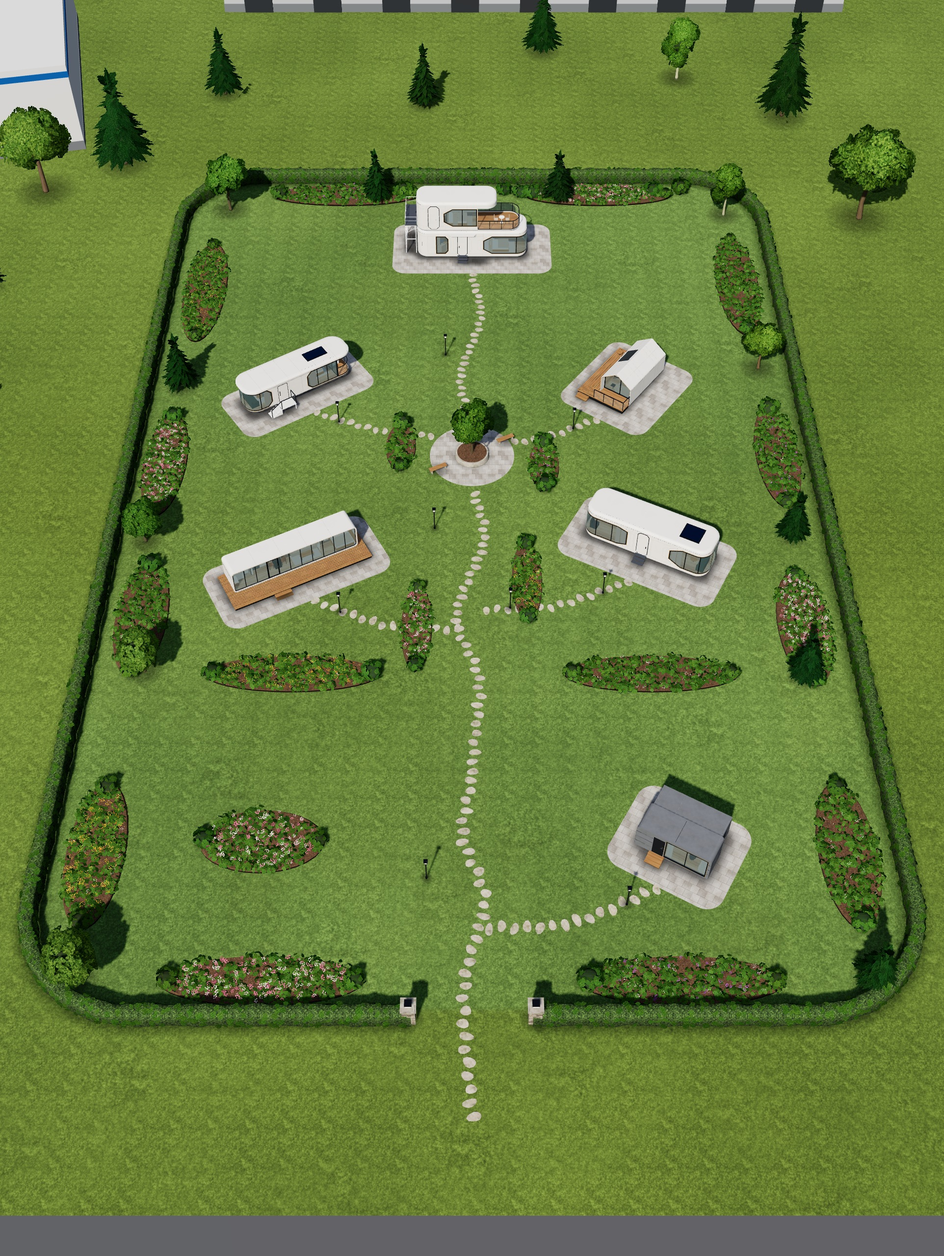
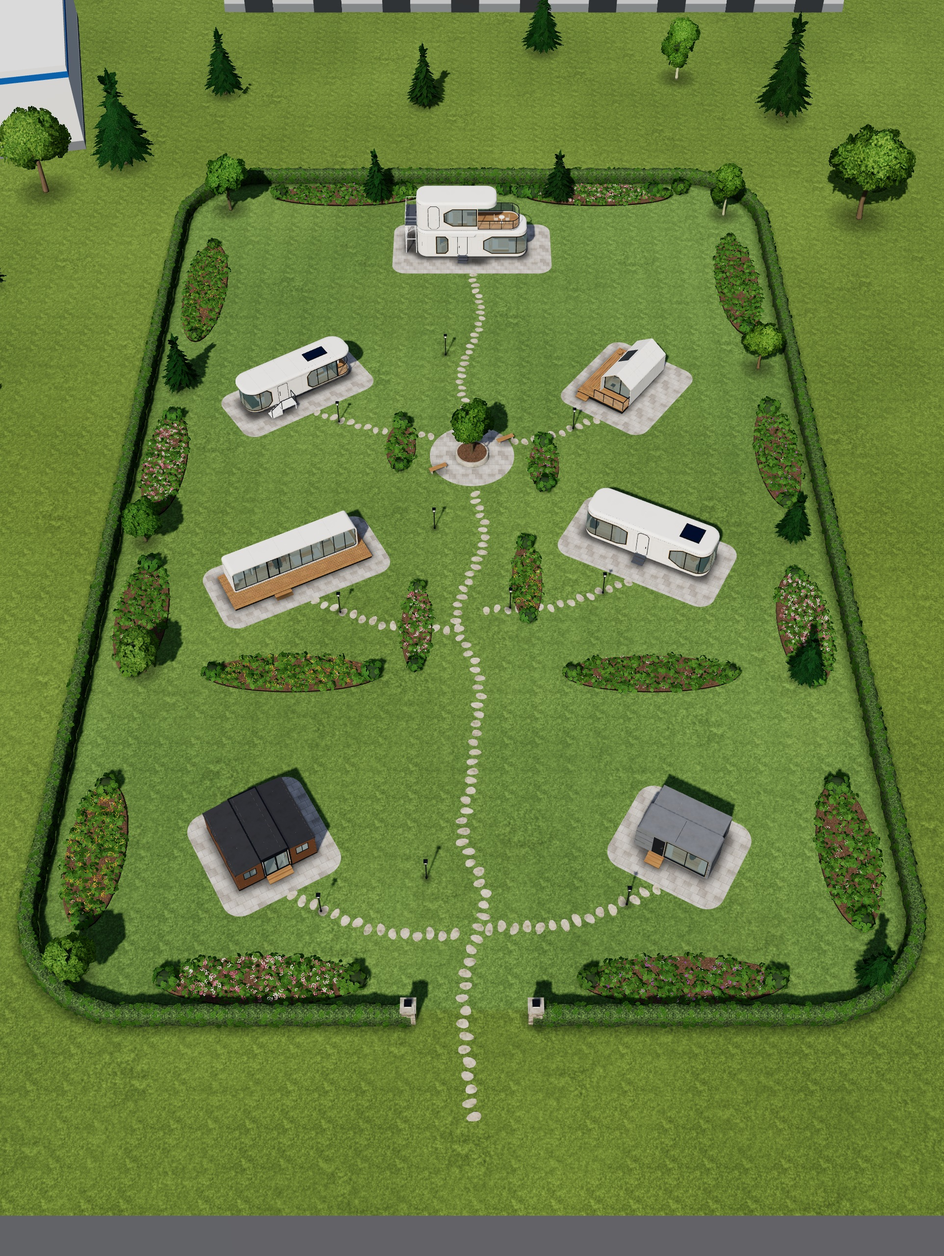
Casa extensibilă de 20 ft: model după planul din ofertă, capturi și noduri pregătite
- h_c20.js refăcut după planul din ofertă (măsurat) și cadre din filmulețul din fabrică:
  peretele dormitoarelor e în miez, dormitoare inegale, baie cu duș pe toată lățimea,
  bucătărie în L; pardoseală gri-bej, rame negre, fără benzi de lumină în tavan
- capturile machetei pentru imaginile reale (toată grădina cu casa, casa din afară pe
  ecran lat și înalt, planul, cinci camere) și locurile camerei pentru ea
- surse/ai360/CITESTE.md, partea a șasea: nodurile pregătite în ElevenLabs pentru casa
  nouă, pentru scaunul din E7 și pentru grădina la ferestrele lui X7, cu pașii de după
- casa nu e pusă în grădină până nu are imagini reale (pune_c20.py o pune / o scoate)

Claude-Session: https://claude.ai/code/session_01KQBPBSm1ebqTvHwEmS7Cs6

diff --git a/site/js/h_c20.js b/site/js/h_c20.js
@@ -71,7 +71,7 @@ export function build(M) {
   // materiale proprii: panourile maro cu aspect de lemn („emissive” diferit de zero, ca seara să nu fie luminate ca mobila) și pardoseala gri-bej
   const lemn = new THREE.MeshStandardMaterial({ color: 0x6f4b31, roughness: .72, metalness: .05, side: THREE.DoubleSide, emissive: 0x010101, emissiveIntensity: 0 });
   const RL = F.fadeSet({ lemn });
-  const podea = new THREE.MeshStandardMaterial({ color: 0xb9b3a7, roughness: .8 });
+  const podea = new THREE.MeshStandardMaterial({ color: 0xb9b3a7, roughness: .8, emissive: 0xb9b3a7, emissiveIntensity: .22 });   // (lumina proprie ține loc de lumina din cameră, ca la pardoseala comună)
 
   /* ---- pereții din afară: aripile (maro) cu ferestre; partea de sus, până sub acoperișul înclinat, se ridică odată cu acoperișul ---- */
   const win = c => [c, WW, WS, WH], pLo = [], pUp = [], inLo = [], inUp = [], frLo = [], frUp = [], gl = [];
@@ -113,9 +113,8 @@ export function build(M) {
   [-1, 1].forEach(s => { mesh(skyGlass(s < 0 ? -DX + .07 : .055, s < 0 ? -.055 : DX - .07, ga, YC, ga, gb, zd), GF.glass, root, false, false); mesh(skyGlass(s < 0 ? -DX + .07 : .055, s < 0 ? -.055 : DX - .07, YC, gb, ga, gb, zd), R.glass, roof, false, false); });
   root.add(box(.025, .16, .05, M.dark, -.1, FY + 1.05, zd + .05), box(.025, .16, .05, M.dark, -.1, FY + 1.05, zd - .05));
 
-  /* ---- pardoseala, luminile din tavan, ramele negre din interior (plinta, colțurile, grinzile de la îmbinarea aripilor cu miezul) ---- */
+  /* ---- pardoseala și ramele negre din interior (plinta, colțurile, grinzile de la îmbinarea aripilor cu miezul); tavanul e alb, simplu ---- */
   mesh(bx(WT - 2 * T, .04, DT - 2 * T, 0, FY - .02, 0), podea, root, false);
-  mesh(merge([bx(.04, .015, 2.6, -.25, Y1 - .14, 1.2), bx(.04, .015, 3.6, -2.1, yw(2.1) - .03, 0), bx(.04, .015, 2.2, 2.1, yw(2.1) - .03, -1.2), bx(.04, .015, 1.5, 2.1, yw(2.1) - .03, 1.75)]), R.ledIn, roof, false, false);
   const PL = .05;
   frLo.push(bx(WT - 2 * T, PL, .02, 0, FY + PL / 2, ZI + .012), bx(.02, PL, DT - 2 * T, -XI + .012, FY + PL / 2, 0), bx(.02, PL, DT - 2 * T, XI - .012, FY + PL / 2, 0));
   [[-XI, -CX], [CX, XI]].forEach(([a, b]) => frLo.push(bx(b - a, PL, .02, (a + b) / 2, FY + PL / 2, ZG - .012)));

diff --git a/surse/ai360/CITESTE.md b/surse/ai360/CITESTE.md
@@ -306,3 +306,71 @@ Credite: 5 imagini 4K cu două referințe 13.635 · retuș 918 · 4 camere 9.088
   T7, când camera ajunge în spatele lor). Se potrivesc doar dacă se refac (≈13.600 de credite pe casă).
 - Imaginile de seară pregătite (12 noduri) sunt din grădina veche: cele două cu toată grădina trebuie refăcute, iar T6 n-are.
 
+
+# Partea a șasea: cererile din 17 nov 2026 (casa C20, scaunul din E7, grădina la ferestrele lui X7) — pregătite, fără credite
+
+Clientul a trimis a doua proformă (casa extensibilă de 20 ft), un filmuleț din fabrică și capturi: „hai să mai adăugăm și casa
+asta”, „aici scaunul este intrat în bucătărie” (E7), „aici aș vrea să arate din grădină… nu din parcare” (X7, interior). ElevenLabs
+avea 606 credite, deci **nimic din ce e mai jos n-a fost pornit**: sursele sunt atașate în flux și nodurile sunt făcute. Când sunt
+credite: `creative_run_flow_nodes` cu `generations_count: 1` (întâi `estimate_only: true`). Ordinea: E7 → X7 → C20.
+
+## 1. E7: scaunul scos din bucătărie (≈ 4.550 de credite)
+Al doilea scaun de la masa rotundă intra în corpul de bucătărie. În model a fost mutat (`site/js/h_e7.js`:
+`put(F.chair(M), -3.58, -.82, Math.PI / 2)`), iar sursele 360° au fost refăcute din aceleași puncte (`e7_living_src.jpg`,
+`e7_bucatarie_src.jpg`). În planul lui E7 (`pl_e7_1`) scaunul nu se vede, deci planul rămâne.
+| ce | nod (sursa) |
+|---|---|
+| e7_living (v2) | `siiPjhzJZxTSExNNVAtn` (`2XyYQfpalM8hIR49Rssx`) |
+| e7_bucatarie (v2) | `Xs7unmMUfxys2YxsIC2B` (`bkS5g0n7QZ7Gsn7GBqO0`) |
+După generare: `python3 fix360.py --masoara e7_living_src.jpg <generat>` (dacă a ieșit rotită, se dă deplasarea ca al treilea
+argument), `python3 fix360.py <generat> ../../site/img/gd/ai/e7_living.webp [deplasare]`, la fel bucătăria. Copiile de acum sunt
+în `versiuni/inainte-e7-scaun-x7-gradina/img/`.
+
+## 2. X7: grădina la ferestre, în fotografiile reale 360° (≈ 10.900 de credite)
+În X7 se văd fotografiile adevărate din showroom, iar pe geam se vede parcarea. Clientul vrea să se vadă grădina. Se schimbă
+**doar ce se vede prin geam**, în cele patru fotografii de zi cu ferestre (baia n-are fereastră; cele de seară au draperiile trase).
+| fotografia | nod (fotografia atașată + imaginea reală a lui X7 din afară, `Rga4CczKuD3XXHyWSCbR`, ca aspect al grădinii) |
+|---|---|
+| living | `bZeHUbN0iIaDEzBuqTx7` (`NNFGifDnIvqoUoM8yqis`) |
+| masă | `TTAGJh90S2a3blEX5VNX` (`kPPUBVKMXvMKWIncgbJ4`) |
+| blat (bucătărie) | `lMU1XbqhuBHa16ddZLOq` (`y7I3dXOva8KKg38BomYh`) |
+| dormitor | `kHaSgwieCwkHpDPNOcBI` (`jgu7e7bQMeqepd098TdO`) |
+Pașii după generare (de făcut; nimic din ei nu e încă în pagină):
+1. Rezultatul se aduce la 4096×2048 și se verifică să nu fie rotit față de fotografie (`fix360.py --masoara`).
+2. **În fotografia adevărată se lipesc doar geamurile**: masca = unde rezultatul diferă de fotografie (diferență peste un prag,
+   curățată și cu margini estompate); restul rămâne pixel cu pixel fotografia reală. De verificat de mână fiecare fereastră (ramele
+   și draperiile nu trebuie atinse). Dacă generatorul a schimbat și interiorul, masca se taie de mână pe zonele geamurilor.
+3. Copiile se pun **separat**, doar pentru grădină: `site/img/gd/x7/<punct>_m.webp` și `_l.webp` (aceleași mărimi ca în
+   `site/p360/`). Fotografiile din `site/p360/` rămân neatinse (turul 360° arată locul real).
+4. În `site/js/gradina-data.js`, la X7: `pano: { …, gradina: ['living', 'masa', 'blat', 'dorm'] }`; în `site/js/garden.js`,
+   `panoUrl` ia aceste puncte din `img/gd/x7/` (ziua); eticheta din fișă devine „Fotografii reale 360° din showroom · grădina de la
+   ferestre e adăugată cu AI”, iar pe imagine apare mențiunea mică (ca la imaginile cu AI). Se completează și nota de sub grădină
+   (`surse/final/parts/gradina.html`). **Fără aceste mențiuni nu se publică**: fotografia nu mai arată locul real.
+
+## 3. Casa C20 (extensibilă, 20 ft) (≈ 25.000 de credite imaginile + ≈ 13.600 rotirea)
+Modelul: `site/js/h_c20.js`, după planul din ofertă (mărit de 8 ori și măsurat) și după cadre din filmuleț. Datele din ofertă:
+20 ft, 5900 × 6200 × 2480 mm, „Two Bedrooms and One Living Room”, structură din țeavă de oțel zincată la cald, podea SPC 4 mm,
+pereți din panouri de 75 mm, panouri exterioare din tablă colorată (maro, cu aspect de lemn), ușă dublă din aluminiu cu rupere de
+punte termică și **geam triplu**. Proforma (prețuri de achiziție, nume, adrese) **nu se urcă în git**.
+Casa **nu e în `CASE`** cât nu are imagini reale. Pentru capturi: `python3 surse/ai360/c20/pune_c20.py` (o pune pe locul liber,
+x = −15,5, z = 40, rot 30, și scoate stratul cu flori), la sfârșit `--scoate`. Sursele sunt făcute (17 nov) și atașate:
+| ce | nod (surse) | proporție |
+|---|---|---|
+| gr_all (grădina cu C20) | `9Uu2gMiZ6PTYV5ulUJ9r` (`wOiAhxyBIm2x6mcEy4zc` + imaginea reală de acum `o8WuI6iFTbfLAqblwdyJ`) | 3:2 |
+| gr_all_p | `W16kTBL98mFbUXkglVAS` (`HJlVHE4KLJTv4WDILwdF` + `w5R2nKyezOyDnHTwX0Qu`) | 3:4 |
+| gr_c20 | `TIF2kY3kDLshwvz4yk80` (`vu9Eqh4vg9rcUNAVIycM` + X7 real) | 16:9 |
+| gr_c20_p | `bEvzkrSg8sMjke6F1lfR` (`PsyI4FdaYLWitg2IjO1W` + X7 real) | 4:5 |
+| pl_c20_1 | `HCYqL85eiRcSJ0MdjOrE` (`f3RLdja3iVjlkMVhxn3C` + planul real al lui T7) | 21:9 |
+| c20_living / bucatarie / baie / dormitor1 / dormitor2 | `OIPqfvoAl8VrPVNNu6bD` · `p1Unc8KWD93vj3shjAa1` · `C9X90umMwXNJ13LBzzgk` · `nW8p3joWw7ZEltUzfYg6` · `w5Z7XoB3jMGy5ZNNud6E` (sursele `14cCpadSaYNjC5yu0mjU` · `ntqq1jZQ2rmhlEzoXhFi` · `CyXeeOAfGbr9tcHnVvXk` · `HLfTcTsw0HrJSvOe2qzQ` · `tvRHWN1PcetDUTViyiLu`) | auto |
+Punctele camerelor (lume): living −15,779 · 41,316; bucătărie −18,044 · 39,794; baie −16,082 · 38,892; dormitor 1 −13,982 · 38,95;
+dormitor 2 −13,338 · 40,045 (y = 1,85). Cadrele vederilor: `vederi/cadre.json` (`gr_c20`, `gr_c20_p`, `pl_c20_1`).
+**După imagini:** `fixflat.py` / `fix360.py`, `pune_c20.py`, apoi în `gradina-data.js`: `ai: ['c20_living', 'c20_bucatarie',
+'c20_baie', 'c20_dormitor1', 'c20_dormitor2']`, `VEDERI.all` (fișierele noi, aceleași cadre), `VEDERI.C20`, `PLANURI.C20`.
+**Rotirea** se face ultima (nodul Aleph are nevoie de imaginea reală `gr_c20` ca referință, cea pusă pe site): filmarea machetei
+e gata și atașată în flux (`rot9-c20.mp4`, 192 de cadre, pornită din locul vederii: nodul video `bIBelmNESNdTM5ypvX5B`). Se face un
+nod `runway-aleph2` ca al lui T6 (`itW7VC4wB80UJntIPw7m`), legat la ea (`video`) și la imaginea reală `gr_c20` (`image`), cu
+descrierea casei din nodul `gr_c20`; apoi `MARI=96 python3 fixspin.py <mp4> ../../../site/img/gd/rot/c20 192 1024` și `ROTIRI.C20`
+(`az0: 60`). La urmă, imaginea de rezervă `site/img/gd/gradina.webp` din noul `gr_all`.
+**De verificat la fiecare imagine:** să nu apară clădiri în plus (ca la T6) și casa să rămână maro, cu rame negre.
+**De întrebat clientul:** numele casei („C20” e de lucru), prețul de vânzare, dacă ușile dormitoarelor sunt albe (în filmuleț au
+folie albastră de protecție) și dacă vrea în grădină și copertina separată din proformă.

diff --git a/CLAUDE.md b/CLAUDE.md
@@ -165,8 +165,9 @@ plus ≈ 13.600 dacă vrea și rotirea lui X7 refăcută. Nodurile și pașii: `
   adevărate), iar eticheta și nota de sub grădină trebuie să spună că grădina de la ferestre e adăugată cu AI.
 - **„Hai să mai adăugăm și casa asta”**: casa extensibilă de 20 ft din a doua proformă (5,9 × 6,2 × 2,48 m, două dormitoare + living
   cu bucătărie + baie). Modelul e gata (`site/js/h_c20.js`, făcut după planul din ofertă și filmulețul din fabrică), dar **nu e încă
-  în grădină**: intră doar odată cu imaginile ei reale (altfel s-ar vedea macheta). Rândul ei pregătit e în
-  `surse/ai360/c20/` (loc: x = −15,5, z = 40, în locul stratului cu flori). Numele „C20” e de lucru: **de întrebat clientul** cum
+  în grădină**: intră doar odată cu imaginile ei reale (altfel s-ar vedea macheta). Rândul ei se pune cu
+  `surse/ai360/c20/pune_c20.py` (loc: x = −15,5, z = 40, în locul stratului cu flori). Capturile machetei (vederi, plan, cinci
+  camere, filmarea de rotire) sunt făcute și atașate în flux, iar nodurile sunt pregătite: mai trebuie doar pornite. Numele „C20” e de lucru: **de întrebat clientul** cum
   vrea să se numească, prețul de vânzare (până atunci „Preț pe ofertă”) și dacă ușile dormitoarelor sunt albe (în filmuleț au
   folie albastră). Proforma are date sensibile: nu se urcă în git. ≈ 38.000 de credite pentru toate imaginile și rotirea ei.
 
